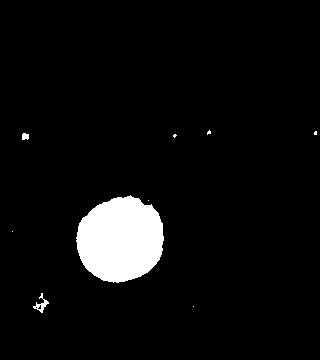
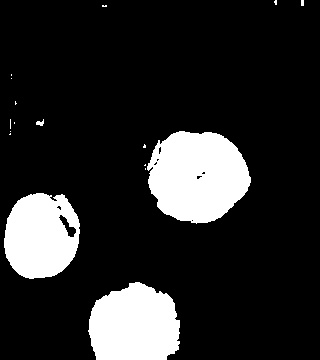
SVE

diff --git a/Vision/vision.cpp b/Vision/vision.cpp
@@ -4,6 +4,7 @@
 #include <iostream>
 #include <algorithm>
 #include <unistd.h>
+#include <stdlib.h>
 
 
 /* Working Configuration Alternatives
@@ -23,10 +24,10 @@
 
 
 //#define meanGValue 200
-#define minGValue 180
+#define minGValue 185
 //#define maxGValue 255
 
-#define minRValue 140
+#define minRValue 150
 //#define threshValLow 50
 //#define threshValHigh 160
 #define PI 3.14
@@ -41,13 +42,16 @@ int Vision::_maxArea;
 Vision::Vision()
 {
     _minArea = 2000;
-    _maxArea = 10000;
+    _maxArea = 15000;
     _numApples = 0;
     _numPotatoes = 0;
 }
 
 void Vision::takePicture()
 {
+
+    system("/home/ubuntu/CameraCalib.sh");
+
     //Remember that color image is read in the BGR format, not RGB
     VideoCapture capture(0);
 
@@ -60,7 +64,8 @@ void Vision::takePicture()
         cout << "Failed to connect to the camera." << endl;
     }
 
-    sleep(5);
+
+    //sleep(5);
     capture >> _imgNew;
     if(_imgNew.empty())
         cout << "Failed to capture an image" << endl;
@@ -68,8 +73,24 @@ void Vision::takePicture()
     {
         //cout<<"Initial Size, rows="<<_imgNew.rows<<" cols="<<_imgNew.cols<<endl;
         imwrite("Before Resizing.jpg", _imgNew);
+
+        //Mat imgBefore = imread('Original-The Real.jpg');
+
         resize(_imgNew, _imgNew, Size(640, 360));
-        //resize(_imgNew, _imgNew, Size(640, 400));
+        //Mat ycrcb;
+        //cvtColor(_imgNew,ycrcb,CV_BGR2HSV);
+
+        //vector<Mat> channels;
+        //split(ycrcb,channels);
+        //split(_imgNew,channels);
+
+        //equalizeHist(channels[0], channels[0]);
+        //equalizeHist(channels[1], channels[1]);
+        //equalizeHist(channels[2], channels[2]);
+
+        //merge(channels,_imgNew);
+        //merge(channels,ycrcb);
+        //cvtColor(ycrcb,_imgNew,CV_HSV2BGR);
 
         //cout<<"After resizing Size, rows="<<_imgNew.rows<<" cols="<<_imgNew.cols<<endl;
         imwrite("Original.jpg",_imgNew);
@@ -119,8 +140,8 @@ int Vision::detect()
         tmp.fruitType=determineFruit(validContourIdx.at(i));
 
        cout<<"Type "<<tmp.fruitType<<endl;
-       cout<<"x = "<<(boundRect[i].br().x+boundRect[i].tl().x)/2<<" y = "<<(boundRect[i].br().y+boundRect[i].tl().y)/2<<endl;
-       cout<<"Motor x = "<<tmp.centroid.x<<" Motor y = "<<tmp.centroid.y<<endl;
+       //cout<<"x = "<<(boundRect[i].br().x+boundRect[i].tl().x)/2<<" y = "<<(boundRect[i].br().y+boundRect[i].tl().y)/2<<endl;
+       //cout<<"Motor x = "<<tmp.centroid.x<<" Motor y = "<<tmp.centroid.y<<endl;
        results.push_back(tmp);
     }
 
@@ -204,9 +225,15 @@ void Vision::preProcessing()
 
     //Mat input;
     //input.create(320,360,CV_8UC(3));
+
+
     color_correction::gray_world b1;
     _imgNew = b1.run2(_imgNew,1,2);
-    imwrite("AfterGrayEdge.jpg", _imgNew);
+    imwrite("AfterGrayWorld.jpg", _imgNew);
+
+    //color_correction::gray_edge b2;
+    //_imgNew = b2.run(_imgNew,1,0);
+    //imwrite("AfterGrayEdge.jpg", _imgNew);
 
     //Mat imgRed;
     vector<Mat> bgr_planes;
@@ -334,14 +361,21 @@ imwrite("ContourModified.jpg", _imgNew);
 
 Point2f Vision::frameConversion(Point2f pt)
 {
-    Point2f tmp;
+    Point2f tmp1;
 
     //tmp.x=(209-pt.x)*(700/182);
-    tmp.x=(239-pt.x)*(700/212);
-    tmp.y=(pt.y-118)*(720/188);    //original = 132
+    /*Last set of working equation
+    // ///tmp.x=(239-pt.x)*(700/212);
+    // ///tmp.y=(pt.y-68)*(720/238);
+    */
+    float x1 = pt.x;
+    float y1 = pt.y;
+    tmp1.x = (211-x1)*(700.0/179.0);
+    tmp1.y = (y1-127)*(720.0/177.0);
+    //tmp.y=(pt.y-118)*(720/188);    //original = 132
 
-
-    return tmp;
+    //cout<<"Inside function x = "<<tmp1.x<<" y = "<<tmp1.y<<endl;
+    return tmp1;
 }
 
 void Vision::detectingBlobs()

diff --git a/Plan/executor.cpp b/Plan/executor.cpp
@@ -61,6 +61,23 @@ bool Executor::load(AbstractFood &food)
 
         //retract the linear actuator
         motor.bMoveDownTo(LOADING_CARRY_H);
+
+        //if in the right hand side, try reroute
+        if(point.x<300)
+        {
+            //in the upper right
+            if(point.y<375)
+            {
+                motor.bMoveYTo(0);
+                motor.bMoveXTo(1000);
+            }
+            //in the bottom right
+            else
+            {
+                motor.bMoveYTo(750);
+                motor.bMoveXTo(1000);
+            }
+        }
         ret = true;
     }
     motor.sleepAll();
@@ -105,21 +122,24 @@ bool Executor::peel(AbstractFood &food)
     //approaching the peeler station with dynamic position
     motor.bMoveYTo(PEELER_Y + food.width/2 + 100);
     motor.bMoveXTo(PEELER_X);
-    int load_height = PEELER_H-food.height +5;
-    if(load_height>LOADING_CARRY_H)
-        motor.bMoveDownTo(load_height);
+
+    //bound the food height
+    if(PEELER_H-food.height +5<LOADING_CARRY_H)
+        food.height = PEELER_H + 5 -LOADING_CARRY_H;
+
+    motor.bMoveDownTo(PEELER_H-food.height +10);
 
     //loading into peeler with feed back
     motor.rotateWith(PEELER_ROTATION);
-    while(motor.getPeelDis()>BLADE_MAX+100)
+    while(motor.getPeelDis()>BLADE_MAX+15)
     {
         motor.bMoveYBy(-10);
-        if(motor.getYPos()==0)
+        if(motor.getYPos()==5)
             break;
     }
 
     //start peeling
-    for (int i=5;i<=food.height-5;i=i+5)
+    for (int i=10;i<=food.height-5;i=i+5)
     {
         motor.moveDownTo(PEELER_H-food.height+i);
 
@@ -129,7 +149,11 @@ bool Executor::peel(AbstractFood &food)
         else if(motor.getPeelDis()>BLADE_MAX)
             motor.moveYBy(-3);
 
-        while(motor.getLPos() < PEELER_H-food.height+i){};
+        while(motor.getLPos() < PEELER_H-food.height+i-2)
+        {
+            if(motor.getLPos() >= 814)
+                break;
+        };
     }
 
     //unload from peeler

diff --git a/Plan/jobmanager.cpp b/Plan/jobmanager.cpp
@@ -41,6 +41,7 @@ void JobManager::executeAll()
 void JobManager::executeJob(Job* job, QProgressBar* bar)
 {
     cout<<"job started"<<endl;
+
     bar->setValue(0);
     Executor& exe = Executor::getInstance();
     vector<AbstractFood*> & allFruits = job->fruits;
@@ -53,6 +54,7 @@ void JobManager::executeJob(Job* job, QProgressBar* bar)
         if(!exe.load(*food))
         {
             cout<<"fail to load!"<<endl;
+            QMessageBox::information(widget,"Fail","Fail to load food!");
             continue;
         }
         bar->setValue(bar->value()+1);
@@ -88,8 +90,6 @@ void JobManager::executeJob(Job* job, QProgressBar* bar)
         bar->setValue(bar->value()+1);
     }
     cout<<"job done..."<<endl;
-
-    //QMessageBox::information(widget,"Success","All jobs done!");
 }
 
 void JobManager::executeJobTest(Job *job, QProgressBar *bar)

diff --git a/Plan/toolposition.h b/Plan/toolposition.h
@@ -15,19 +15,19 @@ const int PEELER_H = 820;
 //the rotation speed during peelig
 const int PEELER_ROTATION = 400;
 //optimum blade position
-const int BLADE_MIN = 180;
-const int BLADE_MAX = 200;
+const int BLADE_MIN = 400;
+const int BLADE_MAX = 410;
 
 //the start point of the slicer
 const int SLICER_S_X = 1168;
-const int SLICER_S_Y = 700;
+const int SLICER_S_Y = 710;
 //the end point of the slicer
 const int SLICER_E_X = 1168;
 const int SLICER_E_Y = 0;
 //the height of the slicer blade
 const int SLICER_H = 800;
 //the rotation speed of slice
-const int SLICE_ROT=400;
+const int SLICE_ROT=700;
 
 //the center of unloading area
 const int UNLOAD_X = 1700;

diff --git a/GUI/mainwindow.cpp b/GUI/mainwindow.cpp
@@ -16,6 +16,7 @@ MainWindow::MainWindow(QWidget *parent) :
 
     //set up job manager
     jobManager.linkProgressBar(ui->progressBar_1,ui->progressBar_2);
+    jobManager.linkMainWindow(this);
 }
 
 MainWindow::~MainWindow()

diff --git a/Motor/motorparams.h b/Motor/motorparams.h
@@ -5,7 +5,7 @@
 const int SERIAL_RATE = 19200;
 
 //x y direction range
-const long RANGE_X = 1700;
+const long RANGE_X = 1750;
 const long RANGE_Y = 720;
 
 //range of linear actuator
